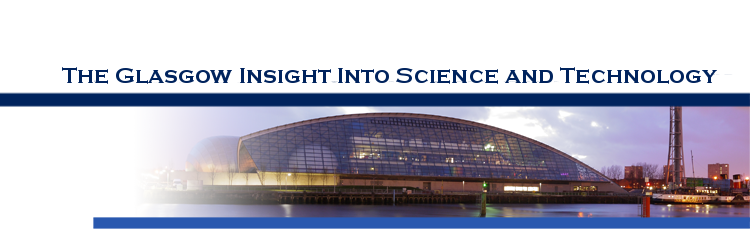
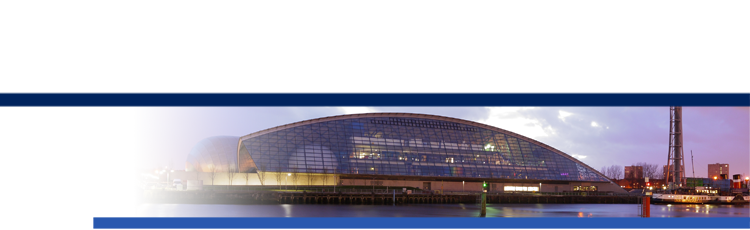
First pass at updating font for tagline

Changed region(s): [[0.092, 0.2739, 0.9507, 0.3652]]

diff --git a/theme/style.css b/theme/style.css
@@ -39,7 +39,7 @@ h3 a {color: #FFFFFF; background: transparent;}
 
 /*---------------- Fonts -------------------------------*/
 
-h1, h2, h3, h4, h5, h6 { font-family: "Helvetica Neue", Arial, Helvetica, "Nimbus Sans L", sans-serif; }
+#tagline, h1, h2, h3, h4, h5, h6 { font-family: "Helvetica Neue", Arial, Helvetica, "Nimbus Sans L", sans-serif; }
 body, .archive .page-title{ font-family: Bookman, Georgia, "Bitstream Charter", serif; }
 
 .single-post .wp-caption-text, .archive .post h2, .slider h2, .single-post .form-allowed-tags { font-size: 12px; }
@@ -165,9 +165,8 @@ h1, h2, h3, h4, h5, h6 { padding: 2px; }
 	padding: 0px 10px 20px 0;
 }
 
-#searchForm {
-	margin: 190px 10px 0px 0;
-}
+#tagline { margin: 60px 0 -80px 0; }
+#searchForm { margin: 110px 10px 0 0; }
 
 #topNav {
 	width: 625px;

diff --git a/theme/header.php b/theme/header.php
@@ -82,6 +82,7 @@
 			</div> <!-- #logo --> 
 	
 			<div id="rightHeader">
+				<div id="tagline"><?php bloginfo('description')?></div>
 				<div id="searchForm">
 					<?php get_search_form(); ?>
 				</div>
